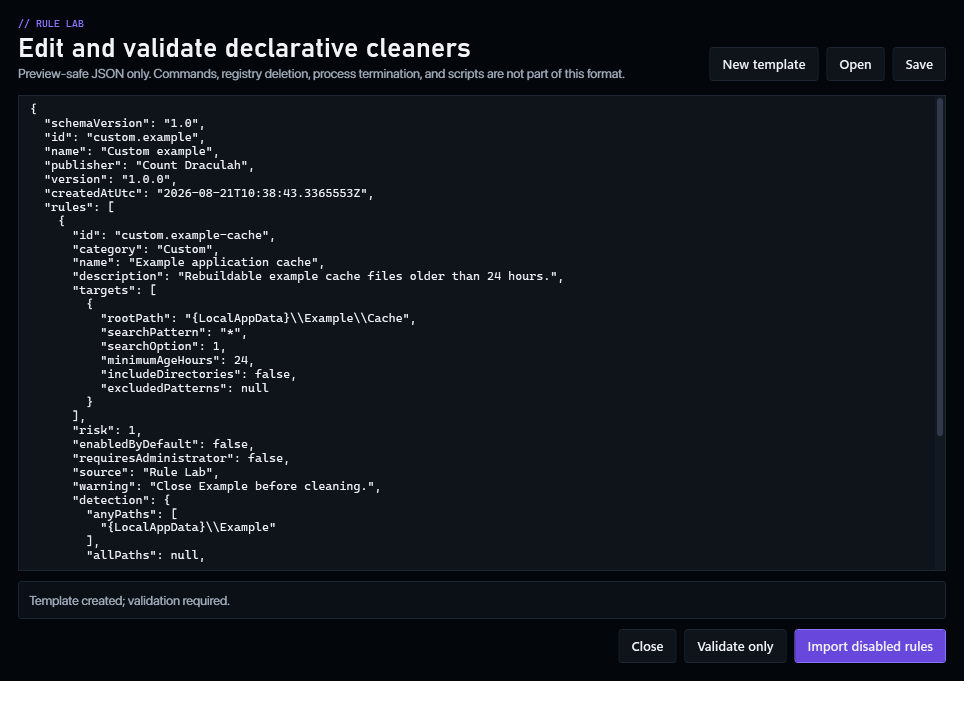
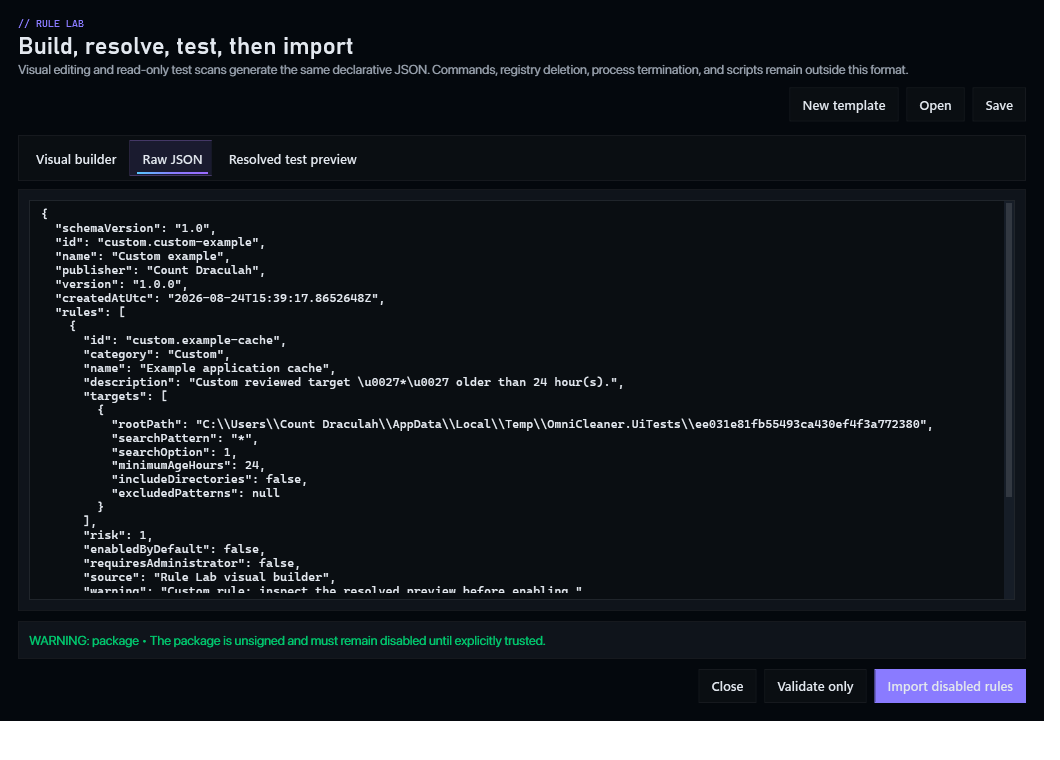
docs: synchronize current product presentation

diff --git a/CHANGELOG.md b/CHANGELOG.md
@@ -4,9 +4,66 @@ All notable public OmniCleaner documentation and product milestones are recorded
 
 ## Unreleased
 
-- Standardized the public repository structure and README information flow.
-- Added a canonical changelog for future public milestones.
+- No product changes are currently queued for publication.
+- Documentation corrections and future release notes will be added here before publication.
 
-## 1.0.0
+## 1.0.0 — 2026-08-23
 
-- Documented the first OmniCleaner product baseline: preview-first cleanup, storage intelligence, local-only operation, recovery, and Windows 11 support.
+### Interface and product identity
+
+- Introduced the Windows 11-focused Omni desktop interface with goal-oriented workspaces, an at-a-glance dashboard, and the guided Analyze → Review → Clean flow.
+- Added global `Ctrl+K` feature search, categorized navigation, progressive disclosure, mouse-over explanations, accessibility help text, keyboard navigation, high-contrast resources, and virtualized result grids.
+- Added local window/workspace continuity and complete interface support for
+  English, German, Spanish, French, Romanian, Russian, Simplified Chinese,
+  Japanese, Korean, and Turkish; missing feature-specific strings fall back
+  safely to English.
+- Finalized the OmniCleaner visual identity: complete color application/installer icon, broom-only window/taskbar mark, and matching grayscale uninstaller icon with deterministic Windows icon sizes.
+- Corrected curved-window corner composition, internal resize zones, small-icon rendering, category artwork, and optical centering of the three guided-workflow numerals.
+
+### Cleanup, privacy, and definitions
+
+- Shipped 112 curated Windows, browser, application, communication, gaming, creative, graphics, developer, and privacy rules with risk, rebuild-cost, warning, detection, exclusion, and automation metadata.
+- Added read-only analysis, exact candidate review, per-item selection, search/risk filtering, safe-selection controls, JSON report export, and immutable cleanup plans that are revalidated immediately before execution.
+- Added protected-root, UNC, reparse-point, cloud-placeholder, active-browser, changed-item, and cleanup-budget safeguards.
+- Added Winapp-style imports, a versioned native JSON format, settings/profile bundles, and the integrated Rule Lab with a visual builder, raw JSON, resolved targets, and read-only test previews.
+- Added explicit signed online and offline catalogue workflows with byte limits, SHA-256, schema validation, RSA-PSS signatures, rollback/identity controls, and disabled-by-default imported rules. No endpoint is contacted automatically.
+
+### Storage and file intelligence
+
+- Added recursive empty-directory discovery, wildcard name filters, zero-byte/hidden/age options, bottom-up revalidation, and protected-root/reparse safeguards.
+- Added configurable large-file discovery and Storage Intelligence 2 with multi-root scan sets, folder/extension summaries, bounded top files, treemap, local trends, logical/on-disk allocation, compressed/sparse metadata, hard-link identity, and cloud state without placeholder hydration.
+- Added duplicate identification using size grouping, front/back samples, full SHA-256, final byte comparison, hard-link alias suppression, deterministic keepers, and a guarantee that at least one physical copy remains.
+- Added local similar-photo review using bounded perceptual hashing. Files over 64 MiB or images over 100 megapixels are refused, nothing is preselected, and visual similarity is never treated as byte identity.
+
+### Windows 11 Care, apps, and recovery
+
+- Added update/reboot/rollback readiness, Low Storage Rescue planning, Downloads classification, shortcut health, supported DISM Component Store analysis, path-free diagnostics, reversible per-user Explorer integration, and contained local Omni-suite discovery.
+- Added installed desktop app, Store/MSIX, startup, service, scheduled task, driver, browser-profile, and browser-extension inventories with native Windows/vendor handoffs where direct mutation would be unsafe.
+- Added reversible registry and Startup-folder controls, protected cookie domains, Windows Restart Manager lock-owner reporting, and exact reviewed WinGet batch plans with cancellation and per-package outcomes.
+- Added Recycle Bin default deletion, managed quarantine, SHA-256 integrity checks, retention/expiry state, collision-safe restore, exact history, and explicit permanent mode.
+- Hardened Shortcut Health so UNC and mapped-network targets are never probed, preventing analysis-driven SMB authentication. Omni-suite launch is refused while OmniCleaner is elevated, and DISM output is bounded to 4 MiB per stream.
+
+### Automation, command line, and distribution
+
+- Added Quick, Balanced, and Privacy profiles plus least-privilege Windows Task Scheduler jobs with analyze-only, cleanup budgets, idle/AC/battery/missed-run/runtime controls, optional notification, and success-only shutdown—without a resident service or tray process.
+- Added the headless CLI for analysis, confirmation-gated cleanup, rule/catalogue operations, storage reports, history, quarantine, profiles, and diagnostics.
+- Added a separate-key manual signed application-update manifest check. OmniCleaner never checks, downloads, or installs application updates automatically.
+- Produced self-contained Windows 11 x64 and ARM64 installer, uninstaller, and portable deliverables with SHA-256 manifests. The public repository intentionally contains none of those binaries or the application source.
+
+### Final validation and security
+
+- Passed 49/49 deterministic Core tests, both WPF smoke targets, and CLI doctor/rule/storage gates.
+- Passed the complete x64 quiet install, installed-CLI, dedicated-uninstaller, and no-residue lifecycle; regenerated and verified x64/ARM64 hashes, versions, architecture, and embedded icon roles.
+- Completed a standard security scan. Its single medium UNC-authentication finding was remediated and regression-tested after the sealed snapshot; no critical, high, or medium finding remains open.
+- Documented the remaining external assurance work: Authenticode signing, broader fresh-VM coverage, physical ARM64 execution, accessibility/user review, ETW measurements, socket-bound DNS validation, hostile-image codec testing, and handle-bound mutation before any future elevated mode.
+
+### Public repository and presentation
+
+- Built a source-free public product repository with an Omni-style animated header, product badges, quick-navigation buttons, curated screenshots, capability and safety graphics, brand assets, and matching Patreon/Ko-fi support buttons.
+- Added complete public feature, coverage, safety, privacy, installation, FAQ, support, security, contribution, licensing, third-party notice, press-kit, and repository-scope documentation.
+- Added defensive publication policy and validation that exclude application source, definitions, tests, scripts, binaries, installers, archives, signing material, and private build infrastructure from GitHub.
+- Reconciled the public feature and safety claims with the final 1.0.0 engineering record, including the last security fixes, package gates, and clearly separated external assurance work.
+
+### Deliberate product boundaries
+
+- Registry cleaning, arbitrary cleanup scripts, forced process termination, unattended uninstall, autonomous driver replacement, fake health scores, resident monitoring, credentialed cloud cleaners, telemetry, advertising, and claimed multi-pass SSD wiping remain intentionally excluded because they do not meet OmniCleaner's Windows 11 safety/value threshold.

diff --git a/README.md b/README.md
@@ -1,5 +1,5 @@
 <p align="center">
-  <img src="assets/marketing/banner-animated.gif?v=20260822-premium-motion-v3" alt="OmniCleaner — Windows maintenance, done transparently." width="100%">
+  <img src="assets/marketing/banner-animated.gif?v=20260825-current-symbol-v1" alt="OmniCleaner — Windows maintenance, done transparently." width="100%">
 </p>
 
 <h1 align="center">OmniCleaner</h1>
@@ -15,10 +15,10 @@
 <!-- Suite metadata: Version · Platform · Languages · Telemetry · Distribution -->
 <p align="center">
   <img alt="Version" src="https://img.shields.io/badge/version-1.0.0-8A7BFF?style=flat-square">
-  <img alt="Platform" src="https://img.shields.io/badge/platform-Windows%2011%20%C2%B7%20x64%20%2F%20ARM64-0078D4?style=flat-square">
-  <img alt="Languages" src="https://img.shields.io/badge/languages-EN%20%C2%B7%20DE%20%28partial%29-8A7BFF?style=flat-square">
-  <img alt="Telemetry" src="https://img.shields.io/badge/telemetry-none-2EA043?style=flat-square">
-  <img alt="Distribution" src="https://img.shields.io/badge/distribution-docs%20only-99A3B1?style=flat-square">
+  <img alt="Platform" src="https://img.shields.io/badge/platform-Windows%2011%20%C2%B7%20x64%20%2F%20ARM64-57C7FF?style=flat-square">
+  <img alt="Languages: 10" src="https://img.shields.io/badge/languages-10-8A7BFF?style=flat-square">
+  <img alt="Telemetry" src="https://img.shields.io/badge/telemetry-none-00C66D?style=flat-square">
+  <img alt="Distribution" src="https://img.shields.io/badge/distribution-docs%20only-969FAB?style=flat-square&labelColor=30363D">
 </p>
 
 <!-- Quick navigation. These are clickable: each chip jumps to a section of this
@@ -59,6 +59,7 @@ OmniCleaner brings modern Windows cleanup, storage intelligence, file discovery,
 | **Local only** | No account, cloud dependency, advertising, analytics, or telemetry. |
 | **Lightweight** | No resident service, tray process, always-on watcher, or background health monitor. |
 | **Windows-native** | Designed for current Windows 11 machines on x64 and ARM64. |
+| **Ten languages** | English, German, Spanish, French, Romanian, Russian, Simplified Chinese, Japanese, Korean and Turkish; missing feature-specific strings fall back safely to English. |
 
 ## Everything in one clear workspace
 
@@ -90,6 +91,13 @@ OmniCleaner brings modern Windows cleanup, storage intelligence, file discovery,
 - Windows Update, driver, and package-update inventory, including explicit WinGet handoff.
 - Direct access to appropriate native Windows maintenance and browser privacy surfaces.
 
+### Windows 11 Care & recovery
+
+- Update/reboot/rollback readiness, ranked Low Storage Rescue, and a conservative Downloads review.
+- Shortcut health without UNC or mapped-network probes, bounded supported DISM analysis, and selected-file lock-owner reporting without forced closure.
+- Reversible Explorer integration, path-free diagnostics, and contained Omni-suite discovery that is disabled while OmniCleaner is elevated.
+- Recycle Bin defaults, SHA-256-verified quarantine, visible retention/expiry state, and collision-safe restoration.
+
 ### Automation without a resident service
 
 - Quick, Balanced, and Privacy maintenance profiles.
@@ -107,8 +115,12 @@ OmniCleaner brings modern Windows cleanup, storage intelligence, file discovery,
 - Recycle Bin, quarantine, restoration, history, settings bundles, and exclusions.
 - Installed apps, startup entries, services, tasks, Windows Update, WinGet, and driver inventory.
 - Signed HTTPS catalog infrastructure for explicitly requested definition updates.
+- Windows 11 Care for update readiness, Low Storage Rescue, Downloads review, shortcut health, Component Store insights, and diagnostics.
+- Bounded local similar-photo review, hard-link-aware storage totals, cloud-state reporting without hydration, and recurring growth snapshots.
 - Native x64 and ARM64 packaging for Windows 11.
 - No ads, account, analytics, telemetry, cloud service, auto-updater, or resident daemon.
+
+Version 1.0.0 passed 49/49 deterministic Core tests, both WPF smoke targets, CLI gates, a complete x64 install/uninstall lifecycle, and x64/ARM64 package verification. The final security review has no open critical, high, or medium finding; remaining signing, physical ARM64, broad fresh-VM, accessibility, and measured-performance work is documented transparently in the [changelog](CHANGELOG.md).
 
 For the long-form inventory, see [Features](FEATURES.md) and [Coverage & improvements](docs/COVERAGE.md).
 
@@ -126,6 +138,13 @@ For the long-form inventory, see [Features](FEATURES.md) and [Coverage & improve
 |---|---|
 | <img src="assets/screenshots/rule-lab.png" alt="OmniCleaner Rule Lab" width="100%"> | <img src="assets/screenshots/settings.png" alt="Settings and safety workspace" width="100%"> |
 
+<details>
+<summary><strong>View the ten-language interface matrix</strong></summary>
+
+![OmniCleaner shown in English, German, Spanish, French, Romanian, Russian, Simplified Chinese, Japanese, Korean, and Turkish](assets/screenshots/languages.png)
+
+</details>
+
 ## Safety is the feature
 
 <p align="center">
@@ -138,7 +157,7 @@ OmniCleaner’s execution model is designed to make stale assumptions and accide
 2. **Review** exact candidates, sizes, sources, risk labels, and the intended action.
 3. **Clean** only the confirmed plan after paths and conditions are revalidated.
 
-Additional protections include root-path blocking, reparse-point boundaries, exclusions, cleanup budgets, immutable plan identities, supported-browser warnings, Recycle Bin defaults, quarantine, and local audit history.
+Additional protections include root-path blocking, reparse-point boundaries, exclusions, cleanup budgets, immutable plan identities, supported-browser warnings, no-probe external shortcut handling, bounded image/DISM processing, Recycle Bin defaults, quarantine, and local audit history.
 
 OmniCleaner intentionally does **not** include a registry cleaner, fake one-click “health score,” automatic driver replacement, multi-pass SSD wiping, forced process termination, or unattended application removal. These features create more risk than value on modern Windows systems.
 

diff --git a/FEATURES.md b/FEATURES.md
@@ -22,6 +22,7 @@ OmniCleaner 1.0.0 is a native Windows 11 maintenance application organized aroun
 - Safe, caution, and advanced risk classifications.
 - Per-rule search, filtering, source display, explanation, enablement, and result review.
 - Exact candidate paths, sizes, modification dates, and planned actions.
+- Clear Why and Expected-impact fields, safe-selection controls, aggregate warnings, and selected-file lock-owner reporting without process termination.
 - User-defined absolute-path exclusions applied to descendants.
 - Supported-browser running-state warnings.
 - Quick, Balanced, and Privacy profiles.
@@ -43,6 +44,8 @@ OmniCleaner 1.0.0 is a native Windows 11 maintenance application organized aroun
 - Whole-tree analysis with protected-path awareness.
 - Results that avoid hydrating cloud placeholders.
 - Storage snapshots and local trend history.
+- Reusable multi-root scan sets, recurring extension-growth sources, logical and allocated-byte totals, compressed/sparse metadata, NTFS file identity, hard-link counts, and hard-link-aware physical totals.
+- Cloud-footprint state from metadata without opening online-only placeholders.
 
 ### Empty directories
 
@@ -66,6 +69,13 @@ OmniCleaner 1.0.0 is a native Windows 11 maintenance application organized aroun
 - Full SHA-256 verification.
 - Final byte-for-byte confirmation.
 - Per-group selection and conservative deletion behavior.
+- Hard-link alias suppression, deterministic keeper suggestions, and enforcement that at least one physical copy remains.
+
+### Similar photos
+
+- Local-only perceptual dHash grouping with the highest-resolution representative.
+- Nothing is preselected, and similarity is never treated as exact duplication.
+- Online-only placeholders are not hydrated; inputs above 64 MiB or 100 megapixels are refused, and hashing uses a bounded decode.
 
 ## Apps & Windows
 
@@ -77,8 +87,23 @@ OmniCleaner 1.0.0 is a native Windows 11 maintenance application organized aroun
 - Windows Update inventory and native update handoff.
 - Explicit WinGet package update checks and handoff.
 - Driver inventory without automatic driver replacement.
+- Read-only Microsoft Store/MSIX package inventory with Windows-owned uninstall handoff.
+- Read-only Chromium and Firefox extension inventory with browser-owned removal and permission controls.
+- Protected cookie domains that prevent broad cookie-database rules, plus native per-site privacy handoffs.
+- Exact, reviewable multi-package WinGet plans with sequential execution, cancellation, and per-package outcomes—never wildcard, force, silent-uninstall, or reboot switches.
 - Browser-profile privacy and settings handoffs.
 - Direct access to selected native Windows maintenance tools.
+
+## Windows 11 Care
+
+- Update readiness with system-drive free space, pending-restart indicators, and `Windows.old` rollback footprint.
+- Ranked Low Storage Rescue plans that keep each proposed action reviewable instead of inventing a health score.
+- Downloads review for installers, archives, disk images, interrupted downloads, age, and size; personal files and cloud-only placeholders are never preselected.
+- Read-only shortcut inspection that separates missing local targets from web/external targets. UNC and mapped-network targets are never probed, preventing analysis-driven SMB authentication.
+- Microsoft-supported DISM Component Store analysis with output bounded to 4 MiB per stream; WinSxS content is never edited directly.
+- Reversible per-user `Analyze with OmniCleaner` Explorer command without a shell-extension DLL, service, or machine-wide registration.
+- Path-free, SHA-256-addressed diagnostics ZIPs that are never uploaded automatically.
+- Containment-checked local Omni-suite discovery with explicit selection and no launch while OmniCleaner is elevated.
 
 ## Automation
 
@@ -91,6 +116,7 @@ OmniCleaner 1.0.0 is a native Windows 11 maintenance application organized aroun
 - Local outcome records and history.
 - No resident service, tray application, or always-on monitor.
 - Command-line workflows for scripted analysis, review, diagnostics, and storage reports.
+- Power-aware idle, AC-start, battery-stop, missed-run, runtime-limit, and transient completion-notification controls.
 
 ## Recovery & portability
 
@@ -101,6 +127,7 @@ OmniCleaner 1.0.0 is a native Windows 11 maintenance application organized aroun
 - Local execution history and outcome details.
 - Import/export settings bundles.
 - Folder exclusions that travel with exported settings.
+- SHA-256 quarantine integrity checks, visible undo/expiry state, retention days, and collision-safe restoration.
 
 ## Platform and footprint
 
@@ -109,6 +136,14 @@ OmniCleaner 1.0.0 is a native Windows 11 maintenance application organized aroun
 - Lightweight idle behavior because nothing remains resident when the UI is closed.
 - No account, advertising, analytics, telemetry, cloud storage, or online dashboard.
 - No automatic updater or unsolicited network call.
+
+## Release assurance
+
+- 49/49 deterministic Core tests, both WPF smoke targets, and CLI doctor/rule/storage gates pass for 1.0.0.
+- The x64 installer, installed CLI, dedicated uninstaller, and no-residue lifecycle pass end to end.
+- x64 and ARM64 self-contained packages, portable archives, SHA-256 manifests, versions, PE architecture, and icon roles were regenerated and verified.
+- A standard security scan's single medium UNC-authentication finding was remediated and regression-tested; no critical, high, or medium finding remains open.
+- Authenticode, broad fresh-VM coverage, physical ARM64 execution, accessibility/user review, and measured ETW performance remain external release-assurance tasks rather than unimplemented product features.
 
 ## Intentionally excluded
 

diff --git a/docs/COVERAGE.md b/docs/COVERAGE.md
@@ -8,13 +8,14 @@ OmniCleaner was designed after studying the capabilities users value in CCleaner
 |---|---|---|
 | General-purpose cleanup | Windows, browser, and application cleanup | 112 curated rules, risk classes, exact previews, exclusions, profiles, history, and recovery-first deletion modes. |
 | Privacy cleanup | Recent traces and browser artifacts | Explicit privacy profile, per-rule descriptions, running-browser guidance, and no telemetry of its own. |
-| Windows cleanup front ends | Access to native Windows maintenance | Windows-native inventory and handoffs, with unsupported or risky operations kept out of one-click presets. |
+| Windows cleanup front ends | Access to native Windows maintenance | Windows-native inventory and handoffs plus bounded supported DISM analysis, with unsupported or risky operations kept out of one-click presets. |
 | Empty-directory tools | Recursive discovery and removal | Recursive preview, protected roots, reparse-point boundaries, configurable behavior, and parent revalidation. |
 | Duplicate finders | Reliable duplicate identification | Size grouping, sample screening, full SHA-256, and final byte comparison before selection. |
-| Storage analyzers | Explain where space is used | Folder and extension summaries, large files, trends, and cloud-placeholder-aware analysis. |
+| Storage analyzers | Explain where space is used | Folder/extension/treemap summaries, reusable scan sets, logical/on-disk and hard-link-aware totals, large files, trends, cloud state without hydration, and bounded local similar-photo review. |
 | App maintenance | Installed programs and startup control | Native uninstall handoff, reversible startup controls, service/task visibility, updates, and driver inventory. |
 | Scheduling | Automatic maintenance | Windows Task Scheduler, profiles, analyze-only runs, budgets, shutdown options, and no resident service. |
 | Extensible cleaners | Community or custom definitions | Winapp-style import, native schema, Rule Lab, and signed-catalog infrastructure. |
+| Windows 11 care tools | Low-space, update, downloads, shortcuts, and diagnostics guidance | Update/reboot/rollback readiness, ranked Low Storage Rescue, conservative Downloads review, no-probe shortcut health, Component Store insights, path-free diagnostics, and reversible Explorer integration. |
 
 ## Improvements over traditional cleanup patterns
 
@@ -37,6 +38,16 @@ Automation uses Windows Task Scheduler. Closing OmniCleaner closes OmniCleaner: 
 ### Useful inventory without unsafe automation
 
 OmniCleaner exposes installed apps, startup items, services, tasks, updates, packages, and drivers, but does not automatically remove applications, replace drivers, or disable arbitrary services.
+
+### Hardened local inspection
+
+Shortcut Health does not probe UNC or mapped-network targets, preventing a local review from initiating SMB authentication. Similar-photo inputs and decoder dimensions are bounded, DISM output is bounded, and contained Omni-suite tools are not launched from an elevated OmniCleaner process.
+
+## 1.0.0 assurance status
+
+- 49/49 deterministic Core tests, both WPF smoke targets, and CLI gates pass.
+- The complete x64 installation/uninstallation lifecycle passes; x64 and ARM64 packages, portable archives, hashes, versions, and architecture were verified.
+- The final security review has no open critical, high, or medium finding. Authenticode, physical ARM64 execution, broader fresh-VM/accessibility review, ETW measurements, DNS transport binding, and hostile-image codec testing remain documented assurance work.
 
 ## Deliberate limits
 

diff --git a/SECURITY.md b/SECURITY.md
@@ -21,3 +21,15 @@ Do not include secrets, personal data, or destructive payloads. Please allow rea
 ## Scope priorities
 
 Reports involving path-boundary bypasses, reparse-point behavior, cleanup-plan substitution, catalog signature validation, quarantine restoration, privilege boundaries, or unintended network activity are especially important.
+
+## 1.0.0 security posture
+
+- Cleanup plans bind candidate metadata and are revalidated before execution; protected roots, exclusions, UNC paths, and reparse boundaries are enforced at analysis and execution time.
+- Recycle Bin is the default. Quarantine uses contained identities, integrity metadata, retention state, and collision-safe restoration; permanent actions require explicit confirmation.
+- Imported rules cannot execute commands, PowerShell, installers, registry deletion, or forced process termination. Signed catalogue imports still begin disabled and are not eligible for unattended automation.
+- Core cleanup is offline. Network-capable catalogue/update checks require explicit user action, public HTTPS, byte limits, redirect/private-address validation, SHA-256 where applicable, and RSA-PSS signatures. Application updates are never downloaded or installed automatically.
+- Shortcut Health never probes UNC or mapped-network targets, preventing analysis-driven SMB authentication. Contained Omni-suite programs are not launched while OmniCleaner is elevated.
+- Similar-photo review rejects inputs above 64 MiB or 100 megapixels and uses a bounded decode; DISM analysis output is bounded to 4 MiB per stream.
+- A standard 1.0.0 security scan's single medium UNC-authentication finding was remediated and regression-tested. No critical, high, or medium finding remains open.
+
+Remaining defense-in-depth work includes binding destination validation to the connected catalogue transport, hostile-image codec fuzzing, and handle-bound file mutation before any future elevated cleanup mode. These limits are documented and do not weaken the non-elevated, preview-first default.

diff --git a/docs/SAFETY.md b/docs/SAFETY.md
@@ -19,6 +19,9 @@ OmniCleaner treats cleanup as a planned system change, not a blind delete operat
 - Supported active browsers can trigger review warnings.
 - Advanced-risk rules are hidden from the default path until deliberately enabled.
 - Scheduled runs can be analyze-only.
+- Shortcut inspection never probes UNC or mapped-network targets, so a local review cannot initiate SMB authentication.
+- Similar-photo inputs are capped at 64 MiB and 100 megapixels and use a bounded decode; DISM output is capped per stream.
+- Contained Omni-suite applications require explicit selection and are not launched while OmniCleaner is elevated.
 
 ## Recovery choices
 
@@ -37,6 +40,10 @@ Duplicate candidates pass through progressively stronger checks: equal size, sam
 ## Empty-directory safety
 
 Empty-directory scans are recursive and previewed. Protected roots and reparse points are excluded. Parent directories are reconsidered only after child processing, so the final action reflects current state rather than stale scan state.
+
+## Definitions, native tools, and elevation
+
+Imported definitions are data, not executable extensions: commands, scripts, installers, registry deletion, and automatic enablement are rejected. Signed online or offline catalogues prove publisher control but still import rules disabled for review. Windows maintenance actions use supported native surfaces where appropriate. OmniCleaner does not auto-elevate, and it refuses to use an elevated process to launch sibling Omni applications.
 
 ## Intentional non-features
 

diff --git a/docs/PRESS-KIT.md b/docs/PRESS-KIT.md
@@ -18,7 +18,7 @@ OmniCleaner is a preview-first Windows 11 cleanup, storage intelligence, app mai
 
 ### Short description
 
-OmniCleaner combines curated Windows and application cleanup, verified duplicate discovery, storage analysis, empty-directory and large-file tools, app and startup inventory, Task Scheduler automation, and recovery-focused safeguards in one clear Windows 11 interface.
+OmniCleaner combines curated Windows and application cleanup, Storage Intelligence 2, verified file discovery, Windows 11 Care, app and startup maintenance, Task Scheduler automation, and recovery-focused safeguards in one clear Windows 11 interface.
 
 ### Key proof points
 
@@ -26,6 +26,8 @@ OmniCleaner combines curated Windows and application cleanup, verified duplicate
 - 112 curated cleaning rules.
 - Recycle Bin by default, plus quarantine and restoration.
 - Full SHA-256 and byte verification for duplicate candidates.
+- Windows 11 Care for update readiness, low-storage planning, Downloads review, shortcut health, Component Store insights, and path-free diagnostics.
+- 49/49 deterministic Core tests plus UI, CLI, x64 lifecycle, x64/ARM64 package, and security gates for version 1.0.0.
 - No account, telemetry, advertising, cloud dependency, resident service, or tray process.
 - Native x64 and ARM64 distribution for Windows 11.
 

diff --git a/FAQ.md b/FAQ.md
@@ -47,3 +47,15 @@ OmniCleaner supports Winapp-style imports, its native rule format, and an integr
 ## Which Windows versions are supported?
 
 Version 1.0.0 focuses on modern Windows 11 machines on x64 and ARM64.
+
+## Does shortcut checking contact network shares?
+
+No. UNC and mapped-network targets are classified as external without an existence probe, so Shortcut Health does not initiate SMB authentication. Only confirmed missing local targets can enter cleanup review.
+
+## Does OmniCleaner run elevated?
+
+It does not auto-elevate at startup. Explicit native Windows operations retain their own consent boundaries, and OmniCleaner refuses to launch sibling Omni applications while its own process is elevated.
+
+## How was version 1.0.0 validated?
+
+The final release passed 49/49 deterministic Core tests, both WPF smoke targets, CLI gates, a complete x64 install/uninstall lifecycle, x64/ARM64 package/hash/architecture checks, and a standard security scan with no open critical, high, or medium finding. Authenticode signing, physical ARM64 execution, broader clean-VM coverage, accessibility user review, and measured ETW performance remain transparently documented external assurance work.

diff --git a/INSTALLATION.md b/INSTALLATION.md
@@ -22,6 +22,12 @@ This GitHub repository is a product showcase, documentation center, support hub,
 - Keep Windows security protections enabled.
 - Do not trust third-party “repacked,” “cracked,” or mirrored copies.
 
+## Release integrity
+
+Current 1.0.0 engineering packages include SHA-256 manifests, but Authenticode signing remains dependent on the publisher's protected certificate workflow. Until a signed channel is announced, compare the release hash with the value published through the same trusted official channel and do not treat a SmartScreen prompt—or its absence—as proof of authenticity.
+
+The x64 installer/installed-CLI/dedicated-uninstaller lifecycle and package residue checks passed on the release validation machine. ARM64 package hashes and PE architecture were verified by cross-publish; execution on physical Windows 11 ARM64 hardware remains an explicit external validation item.
+
 ## First run
 
 1. Open **Overview** and use the categorized workspace cards to understand the available tools.

diff --git a/PRIVACY.md b/PRIVACY.md
@@ -23,8 +23,9 @@ Network access can occur only when the user explicitly requests a network-backed
 
 - A WinGet/package update query or handoff.
 - Retrieval of an explicitly configured HTTPS rule catalog.
+- An explicitly requested signed application-update manifest check, which displays metadata and can open verified release notes but never downloads or installs an update.
 
-Remote catalogs must pass configured digest and signature checks before definitions are accepted. OmniCleaner does not silently poll a catalog or application-update service.
+Remote catalogs must pass configured digest and signature checks before definitions are accepted. OmniCleaner does not send scan results with these requests and does not silently poll a catalog or application-update service. Windows, browsers, WinGet, and publisher tools opened by OmniCleaner have their own network and privacy behavior.
 
 ## Public support services
 
